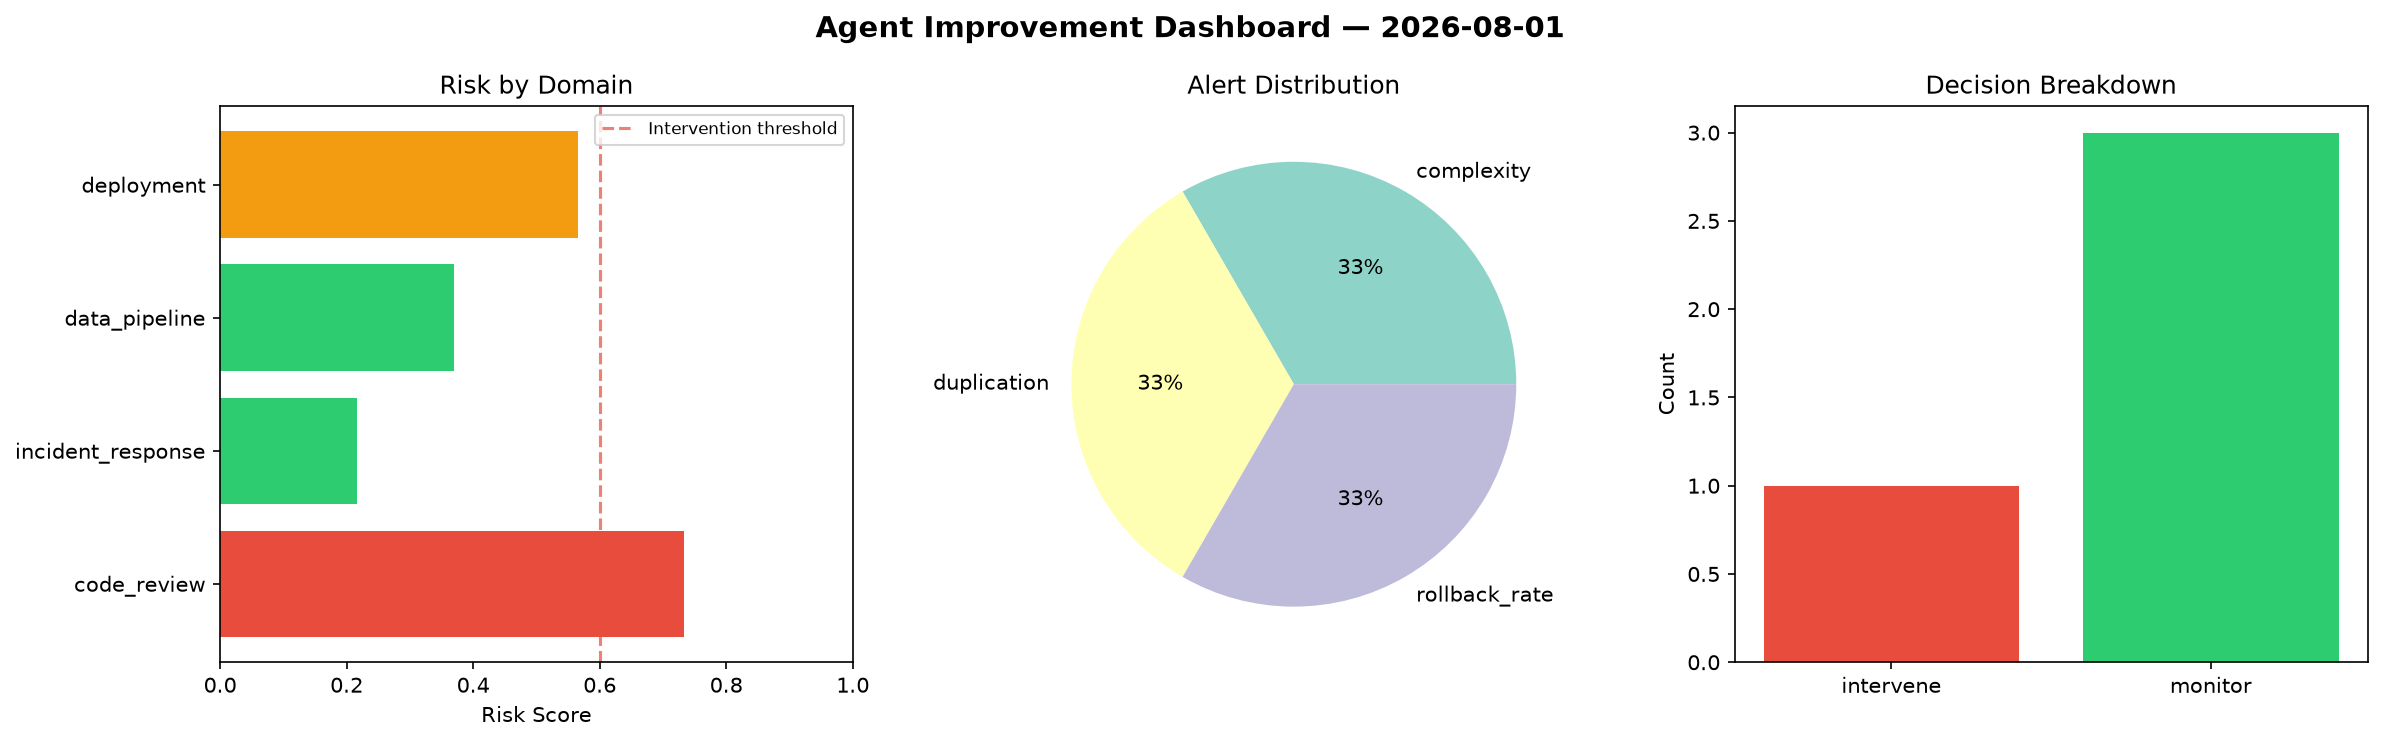
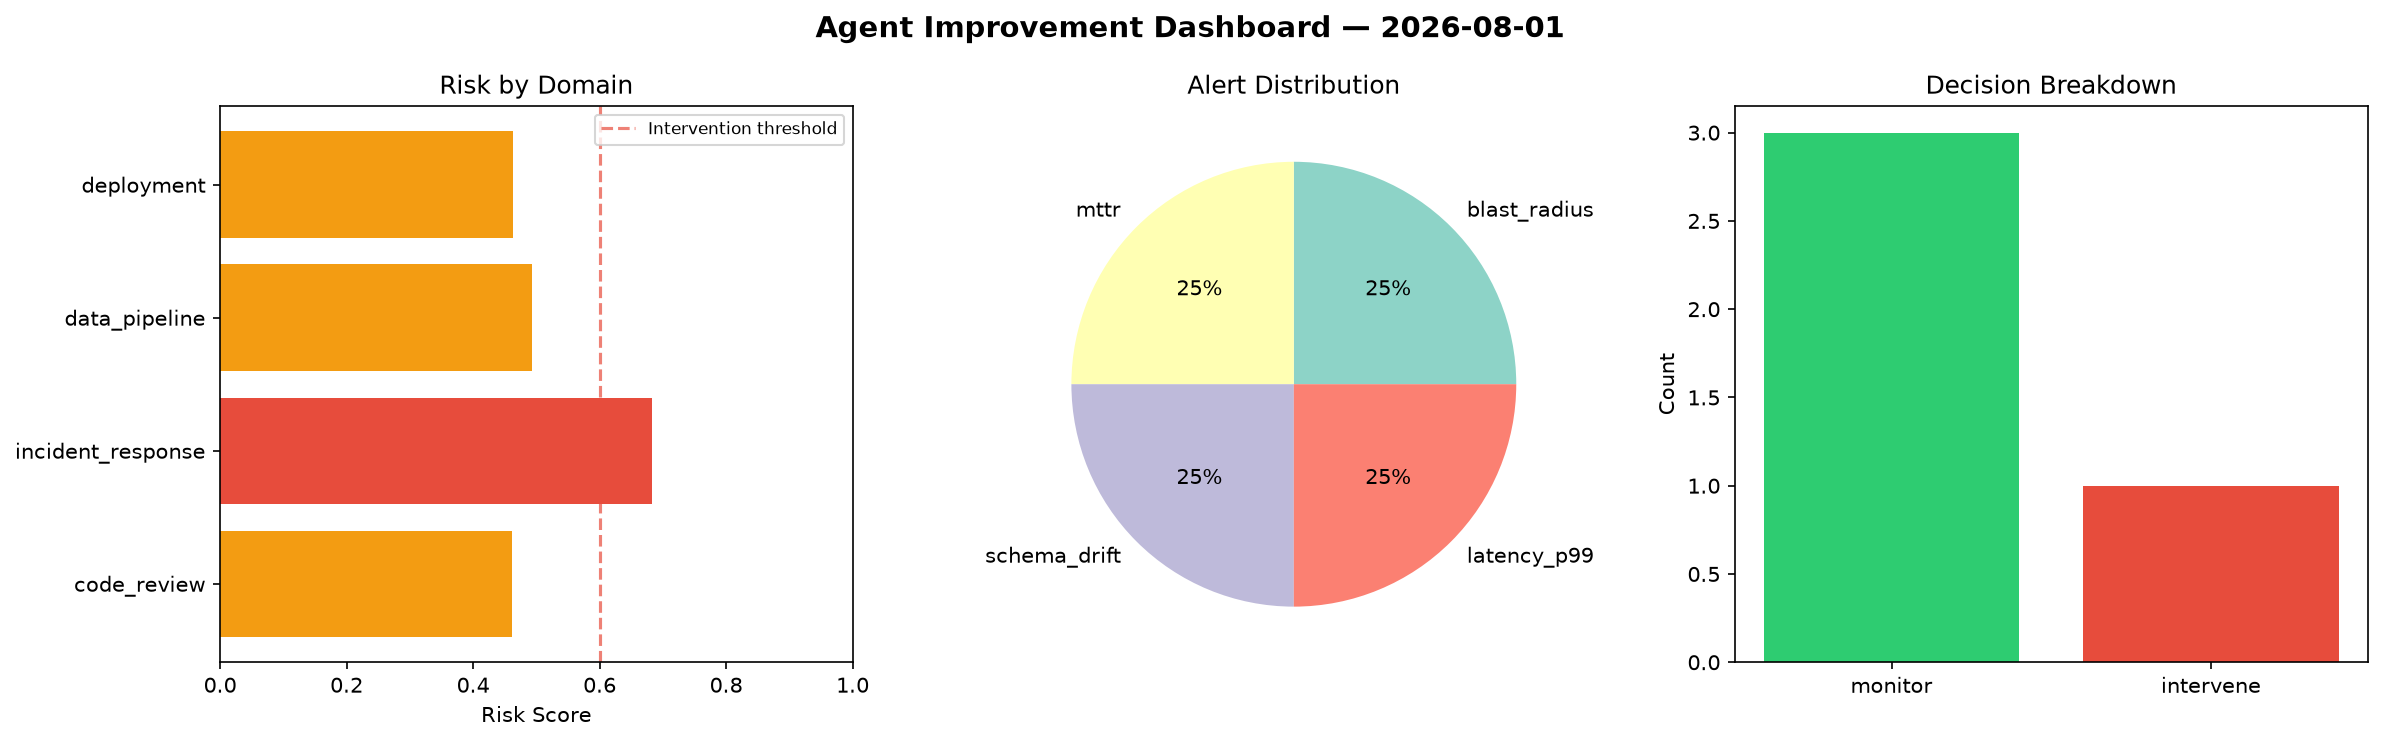
agent-improvement: daily cycle 2026-08-01T15:19

diff --git a/logs/2026-08-01.md b/logs/2026-08-01.md
@@ -1,6 +1,6 @@
 # Agent Improvement Report — 2026-08-01
 
-**Cycle ID:** `df464ee0` | **Avg Risk:** 0.4715 | **Interventions:** 1/4
+**Cycle ID:** `39c2a390` | **Avg Risk:** 0.5254 | **Interventions:** 1/4
 
 ![Dashboard](2026-08-01_dashboard.png)
 
@@ -10,18 +10,18 @@
 
 | Domain | Risk Score | Decision | Alerts |
 |--------|-----------|----------|--------|
-| code_review | 0.7335 | intervene | complexity, duplication |
-| incident_response | 0.2171 | monitor | none |
-| data_pipeline | 0.3704 | monitor | none |
-| deployment | 0.565 | monitor | rollback_rate |
+| code_review | 0.4622 | monitor | none |
+| incident_response | 0.6829 | intervene | blast_radius, mttr |
+| data_pipeline | 0.493 | monitor | schema_drift |
+| deployment | 0.4635 | monitor | latency_p99 |
 
 ## Delta vs Yesterday
 
 | Domain | Today | Yesterday | Change |
 |--------|-------|-----------|--------|
-| code_review | 0.7335 | 0.3905 | 📈 87.8% |
-| incident_response | 0.2171 | 0.2604 | 📉 -16.6% |
-| data_pipeline | 0.3704 | 0.6661 | 📉 -44.4% |
-| deployment | 0.565 | 0.557 | 📈 1.4% |
+| code_review | 0.4622 | 0.3905 | 📈 18.4% |
+| incident_response | 0.6829 | 0.2604 | 📈 162.3% |
+| data_pipeline | 0.493 | 0.6661 | 📉 -26.0% |
+| deployment | 0.4635 | 0.557 | 📉 -16.8% |
 
-**Refinement:** `{'adjustment': 'maintain', 'trend': 'improving', 'window': 4}`
+**Refinement:** `{'adjustment': 'tighten_thresholds', 'trend': 'degrading', 'window': 4}`
